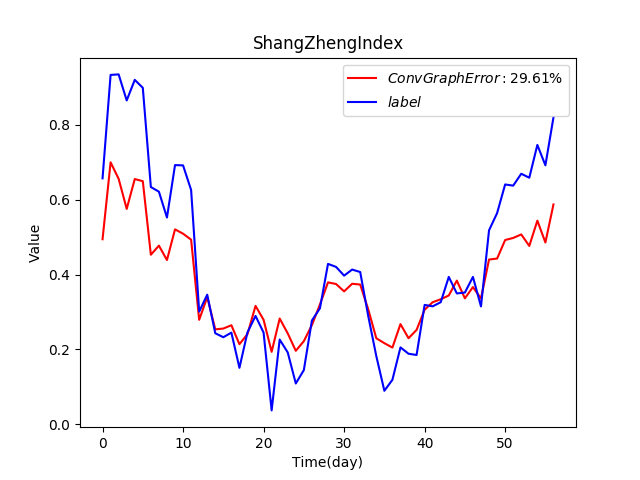
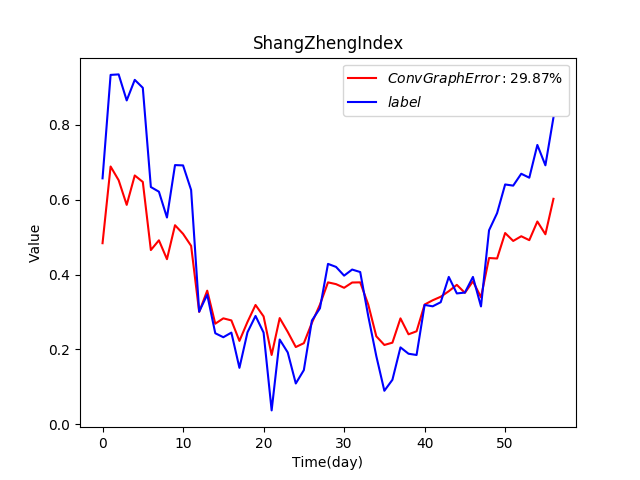
Add the DataUtil Class to access the data more conveniently

diff --git a/model_test/model_test.py b/model_test/model_test.py
@@ -13,6 +13,9 @@ from pylab import *
 from datetime import datetime, timedelta
 import time
 import datetime
+import sys
+sys.path.append('../utils')
+from DataUtil import DataUtil
 
 #Normalization
 def MaxMinNormalization(x,Max,Min):
@@ -92,10 +95,12 @@ def model_conv_4244_test(rawdata):
     n_hours = 4
     n_cols = 5
 
-    dataTest = rawdata.as_matrix()[228:328]
-    # start point
-    dateStr = rawdata.as_matrix()[244:328][:,0]
 
+    dataTest,len1 = DataUtil.getData(rawdata,startpoint='2017/02/08',endpoint='2017/03/22',n_hours=n_hours)
+
+    # start point
+    dateStr,len2 = DataUtil.getData(rawdata,startpoint='2017/02/08',endpoint='2017/03/22',n_hours=n_hours,moving_len=n_frames)
+    dateStr = dateStr[:,0]
     dataTest=dataTest[:,[2,3,4,5,6]]
 
     temp_dataX_Test = []
@@ -139,8 +144,8 @@ def model_conv_4244_test(rawdata):
     #     for j in range(np.array(dataY_Test).shape[1]):
     #         dataY_Test[i][j] = MaxMinNormalization(dataY_Test[i][j], maxV, minV)
 
-    model = model_from_json(open('/home/darren/PycharmProjects/conv_lstm/conv_graph/model_4244_conv_architecture.json').read())
-    model.load_weights('/home/darren/PycharmProjects/conv_lstm/conv_graph/model_4244_conv_weights.h5')
+    model = model_from_json(open('../conv_graph/model_4244_conv_architecture.json').read())
+    model.load_weights('../conv_graph/model_4244_conv_weights.h5')
 
 
 
@@ -180,7 +185,7 @@ def model_conv_4244_test(rawdata):
     plt.xlabel("Date")
     plt.ylabel("Value")
     # plt.title("ShangZhengIndex")
-    # plt.show()
+    plt.show()
 
     # plt.savefig("conv_graph_445.png")
 
@@ -436,22 +441,22 @@ def model_conv_4241_test(rawdata):
 
     # plt.xlabel("Time(day)")
     # plt.ylabel("Value")
-    plt.title("ShangZhengIndex")
+    plt.title("ShangZhengIndex_NoNomorlized")
     # plt.show()
 
-    plt.savefig("ShangZhengIndex.png")
+    plt.savefig("ShangZhengIndex_NoNomorlized.png")
 
     plt.close('all')
 
 
 #load testing raw data
-rawdata_test = pd.read_csv("../data/ShangZheng1H.csv",encoding='gbk')
+rawdata_test = pd.read_csv("../data/ShangZheng1H_NoNomrlized.csv",encoding='gbk').as_matrix()
 # model_4244_test(rawdata_test)
 # model_4241_test(rawdata_test)
 # model_mlp_4241_test(rawdata_test)
 # model_merge_test(rawdata_test)
 model_conv_4244_test(rawdata_test)
-model_conv_4241_test(rawdata_test)
+# model_conv_4241_test(rawdata_test)
 
 
 

diff --git a/test.py b/test.py
@@ -53,32 +53,40 @@
 #     print("%f (%f) with: %r" % (mean, stdev, param))
 
 
-import dateutil, pylab, random
-from pylab import *
-from datetime import datetime, timedelta
-import time
-import datetime
-
-
-today="2012/04/05"
-today=time.strptime(today,"%Y/%m/%d")                            #字符串转换成time类型
-print type(today) #查看date的类型<type 'time.struct_time'>
-today=datetime.datetime(today[0],today[1],today[2])               #time类型转换成datetime类型
-print type(today) #查看date的类型<type 'datetime.datetime'>
-
-dates = [today + timedelta(days=i) for i in range(10)]
-# values = [random.randint(1, 20) for i in range(10)]
-values = [3, 2, 8, 4, 5, 6, 7, 8, 11, 2]
-# plt.plot(dates,values)
-pylab.plot_date(dates, values, linestyle='-')
-grid(True)
-plt.xlabel("Time(day)")
-plt.ylabel("Value")
-plt.title("mlp_441")
+# import dateutil, pylab, random
+# from pylab import *
+# from datetime import datetime, timedelta
+# import time
+# import datetime
 #
-# # savefig('simple_plot.png')
 #
-show()
+# today="2012/04/05"
+# today=time.strptime(today,"%Y/%m/%d")                            #字符串转换成time类型
+# print type(today) #查看date的类型<type 'time.struct_time'>
+# today=datetime.datetime(today[0],today[1],today[2])               #time类型转换成datetime类型
+# print type(today) #查看date的类型<type 'datetime.datetime'>
+#
+# dates = [today + timedelta(days=i) for i in range(10)]
+# # values = [random.randint(1, 20) for i in range(10)]
+# values = [3, 2, 8, 4, 5, 6, 7, 8, 11, 2]
+# # plt.plot(dates,values)
+# pylab.plot_date(dates, values, linestyle='-')
+# grid(True)
+# plt.xlabel("Time(day)")
+# plt.ylabel("Value")
+# plt.title("mlp_441")
+# #
+# # # savefig('simple_plot.png')
+# #
+# show()
+import pandas as pd
+import sys
+sys.path.append('/home/darren/PycharmProjects/conv_lstm/utils')
+from DataUtil import DataUtil
 
+rawdata_test = pd.read_csv("./data/ShangZheng1H_NoNomrlized.csv",encoding='gbk').as_matrix()
 
-
+dataTest,len = DataUtil.getData(rawdata_test,startpoint='2016/11/21',endpoint='2016/11/22',n_hours=4)
+# print (dataTest)
+print (len)
+print (dataTest[:,0])

diff --git a/conv_graph/conv_comparision.py b/conv_graph/conv_comparision.py
@@ -18,6 +18,9 @@ import matplotlib.pyplot as plt
 from keras import optimizers
 from keras import regularizers
 from keras.constraints import maxnorm
+import sys
+sys.path.append('../utils')
+from DataUtil import DataUtil
 
 #When using the GridSearchCV
 # solve the problem: TypeError: get_params() got an unexpected keyword argument 'deep'
@@ -42,7 +45,7 @@ lstm_output_size = 64
 
 # Training
 batch_size = 32
-nb_epoch = 5000
+nb_epoch = 10000
 
 n_frames=4
 n_hours=4
@@ -55,11 +58,12 @@ n_cols=5
 
 
 #load training raw data
-rawdata_train = pd.read_csv("../data/ShangZheng1H.csv",encoding='gbk')
-rawdata_train=rawdata_train[[2,3,4,5,6]] # open,max,min,close,volume
+rawdata_train = pd.read_csv("../data/ShangZheng1H_NoNomrlized.csv",encoding='gbk')
 
+data,len=DataUtil.getData(rawdata_train.as_matrix(),startpoint='2016/11/21',endpoint='2017/02/07',n_hours=n_hours)
+print (len)
+data = data[:,[2,3,4,5,6]]#open,max,min,close,volume
 
-data=rawdata_train.as_matrix()[0:244]
 
 temp_dataX= []
 temp_dataY= []
@@ -67,6 +71,7 @@ temp_dataY= []
 
 temp_dataX=data[0:(data.shape[0]-n_hours)]
 temp_dataY=data[n_frames*n_hours:data.shape[0]]
+
 
 
 #get close column
@@ -179,7 +184,7 @@ plt.legend()
 
 plt.xlabel("Time(day)")
 plt.ylabel("Value")
-plt.title("ShangZhengIndex")
+plt.title("ShangZhengIndex_NoNomorlized")
 # plt.show()
 # #
-plt.savefig("ShangZhengIndex_Trained.png")
+plt.savefig("ShangZhengIndex_NoNomorlized_Trained.png")

diff --git a/conv_column/conv_column_comparision.py b/conv_column/conv_column_comparision.py
@@ -44,7 +44,7 @@ lstm_output_size = 64
 
 # Training
 batch_size = 32
-nb_epoch = 5000
+nb_epoch = 10000
 
 n_frames=4
 n_hours=4
@@ -57,7 +57,7 @@ def MaxMinNormalization(x,Max,Min):
 
 
 #load training raw data
-rawdata_train = pd.read_csv("../data/ShangZheng1H.csv",encoding='gbk')
+rawdata_train = pd.read_csv("../data/ShangZheng1H_NoNomrlized.csv",encoding='gbk')
 rawdata_train=rawdata_train[[5]] # close
 
 
@@ -176,7 +176,7 @@ plt.legend()
 
 plt.xlabel("Time(day)")
 plt.ylabel("Value")
-plt.title("ShangZhengIndex")
+plt.title("ShangZhengIndex_NoNomorlized")
 # plt.show()
 
-plt.savefig("ShangZhengIndex_Trained.png")
+plt.savefig("ShangZhengIndex_NoNomorlized_Trained.png")

diff --git a/utils/DataUtil.py b/utils/DataUtil.py
@@ -1,0 +1,21 @@
+class DataUtil:
+
+    @staticmethod
+    def getData(rawdata,startpoint,endpoint,n_hours,moving_len = 0):
+
+        dateColumn = rawdata[:,0]
+        startIndex = 0
+        for i in range(dateColumn.shape[0]):
+            if(cmp(startpoint,dateColumn[i]) == 0):
+                startIndex = i
+                break
+
+        endIndex = 0
+        for i in range(dateColumn.shape[0]):
+            if(cmp(endpoint,dateColumn[i]) == 0):
+                endIndex = i
+                break
+
+        len = (endIndex - startIndex)/n_hours + 1 - moving_len
+        return rawdata[startIndex + moving_len * n_hours : endIndex+n_hours],len
+
